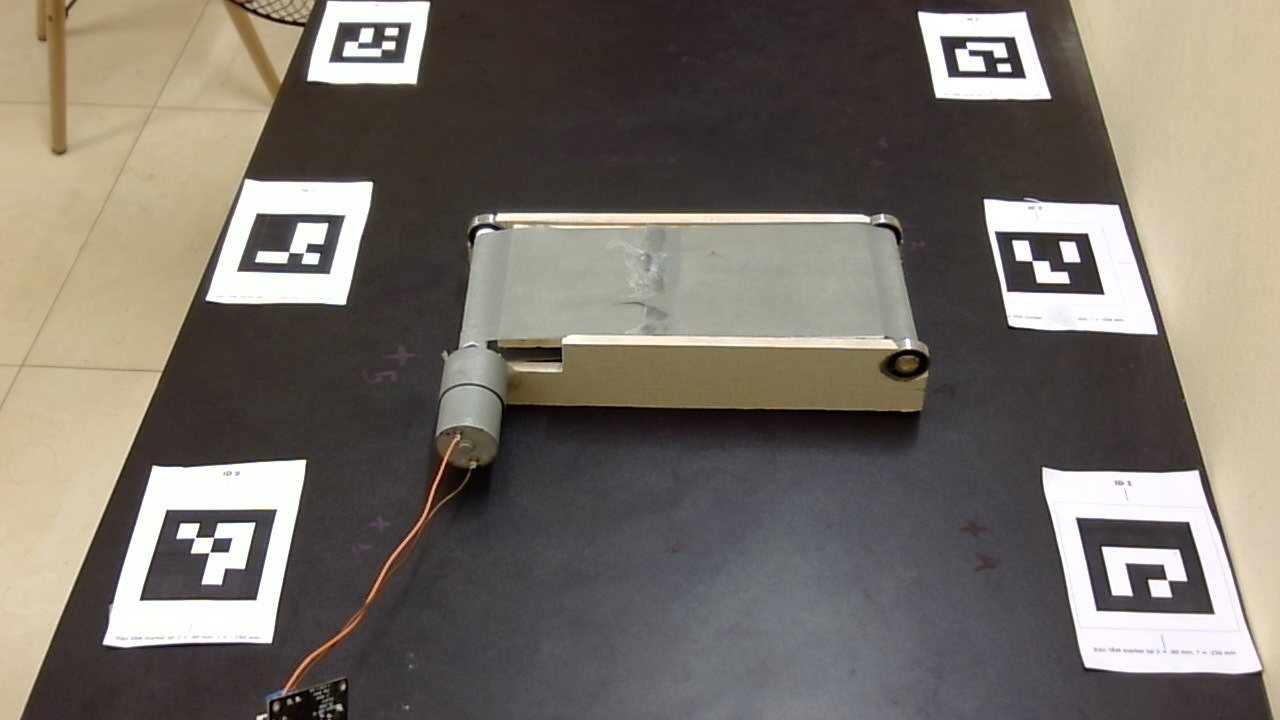
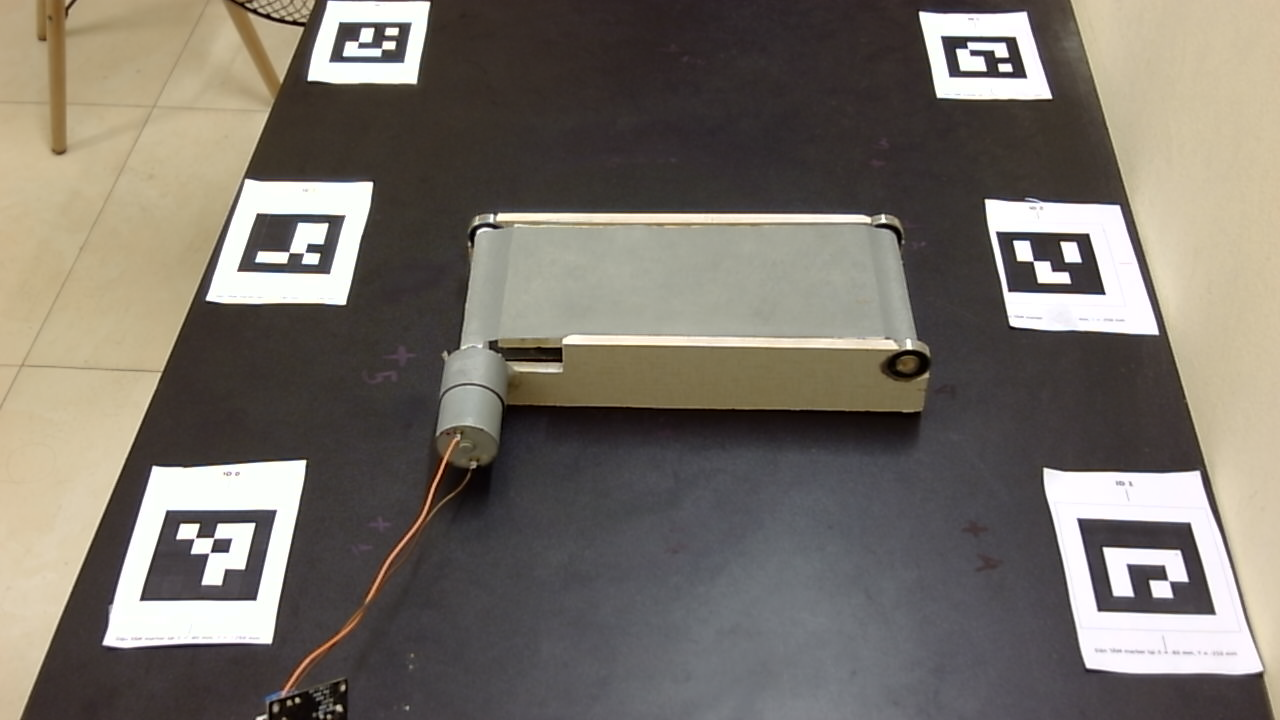
Take follow's hover height from the can, not from the table
follow computed one fixed height at startup from TABLE_Z, which was fine while
every can stood on the table. Cans now stand on the belt, 16.7 mm virtual higher
-- 50 mm real -- so it would have flown that far BELOW the top of the can and
driven the tool straight into it.

Odometry carries z along with x and y, so the height can simply be read off the
can it is following and updated as it goes. That is right wherever the can
stands, and stays right for the raised surfaces, bins or mixed can heights that
step 10c brings. Both cases solve: tool0 at -148.0 over a can on the table,
-131.3 over one on the belt.

The nature of the bug is worth noting: nothing referred to the belt, nothing
broke loudly, and a constant computed once at startup quietly stopped describing
the world after a change somewhere else entirely.

diff --git a/src/delta_controller/delta_controller/follow_node.py b/src/delta_controller/delta_controller/follow_node.py
@@ -76,9 +76,11 @@ class FollowNode(Node):
         self._obj = objects[next(iter(objects))] if self._auto else objects[name]
         self._name = None if self._auto else name
         self._resting = {}        # tên lon -> (x, y) chỗ nó đứng yên lần cuối
-        # Đỉnh lon = mặt bàn + chiều cao lon; tâm tool0 phải cao hơn đỉnh đúng nửa bề dày platform.
-        self._z = (TABLE_Z + 2 * self._obj.half_height
-                   + PLATFORM_HALF_THICKNESS + self._hover)
+        # Cao độ bám lấy từ CHÍNH LON (odometry cho cả z), không suy từ mặt bàn. Lon đứng trên
+        # BĂNG TẢI cao hơn lon đứng trên bàn 16,7 mm ảo = 50 mm thật; giả định mặt bàn thì robot
+        # bay thấp hơn đỉnh lon đúng bấy nhiêu, tức là đâm vào lon. Đây cũng là cách duy nhất còn
+        # đúng khi sau này có thêm bệ, khay hay lon cao thấp khác nhau (Bước 10c).
+        self._z = self._hover_over(TABLE_Z + self._obj.half_height)   # tạm, tới khi thấy lon
 
         self._commander = JointCommander(self)
         self._target = None          # (x, y) ảo, chỗ lon đang đứng
@@ -96,11 +98,16 @@ class FollowNode(Node):
         self.create_timer(1.0 / self._rate, self._tick)
         self.create_timer(5.0, self._report)
         self.get_logger().info(
-            f'Bam {"lon VUA DICH" if self._auto else name}: giu tool0 o z = {self._z:.4f} m ao '
-            f'(khe {1000 * SCALE * self._hover:.0f} mm that tren dinh lon), '
+            f'Bam {"lon VUA DICH" if self._auto else name}: khe '
+            f'{1000 * SCALE * self._hover:.0f} mm that tren dinh lon (cao do bam lay tu chinh '
+            f'lon, nen lon tren BAN hay tren BANG deu dung), '
             f'toc do toi da {self._max_speed:.3f} m/s ao.')
 
     # ------------------------------------------------------------------ nhận tin
+
+    def _hover_over(self, center_z):
+        """Cao độ tool0 để lơ lửng trên một lon có tâm ở `center_z`."""
+        return center_z + self._obj.half_height + PLATFORM_HALF_THICKNESS + self._hover
 
     def _on_joints(self, msg):
         if len(msg.position) >= 3:
@@ -123,6 +130,7 @@ class FollowNode(Node):
                 if name != self._name:
                     return
                 self._target = here
+                self._z = self._hover_over(p.z)
                 self._target_at = self.get_clock().now().nanoseconds * 1e-9
         return callback
 
